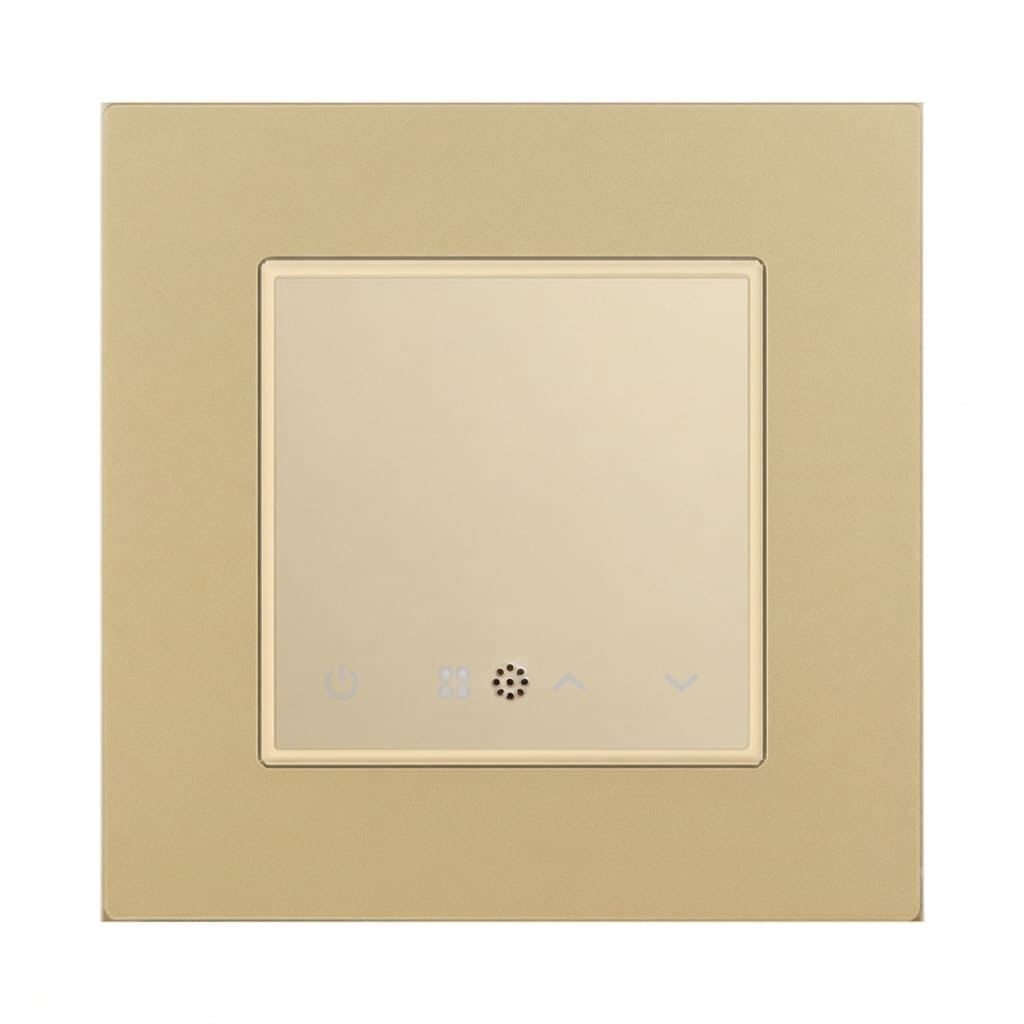
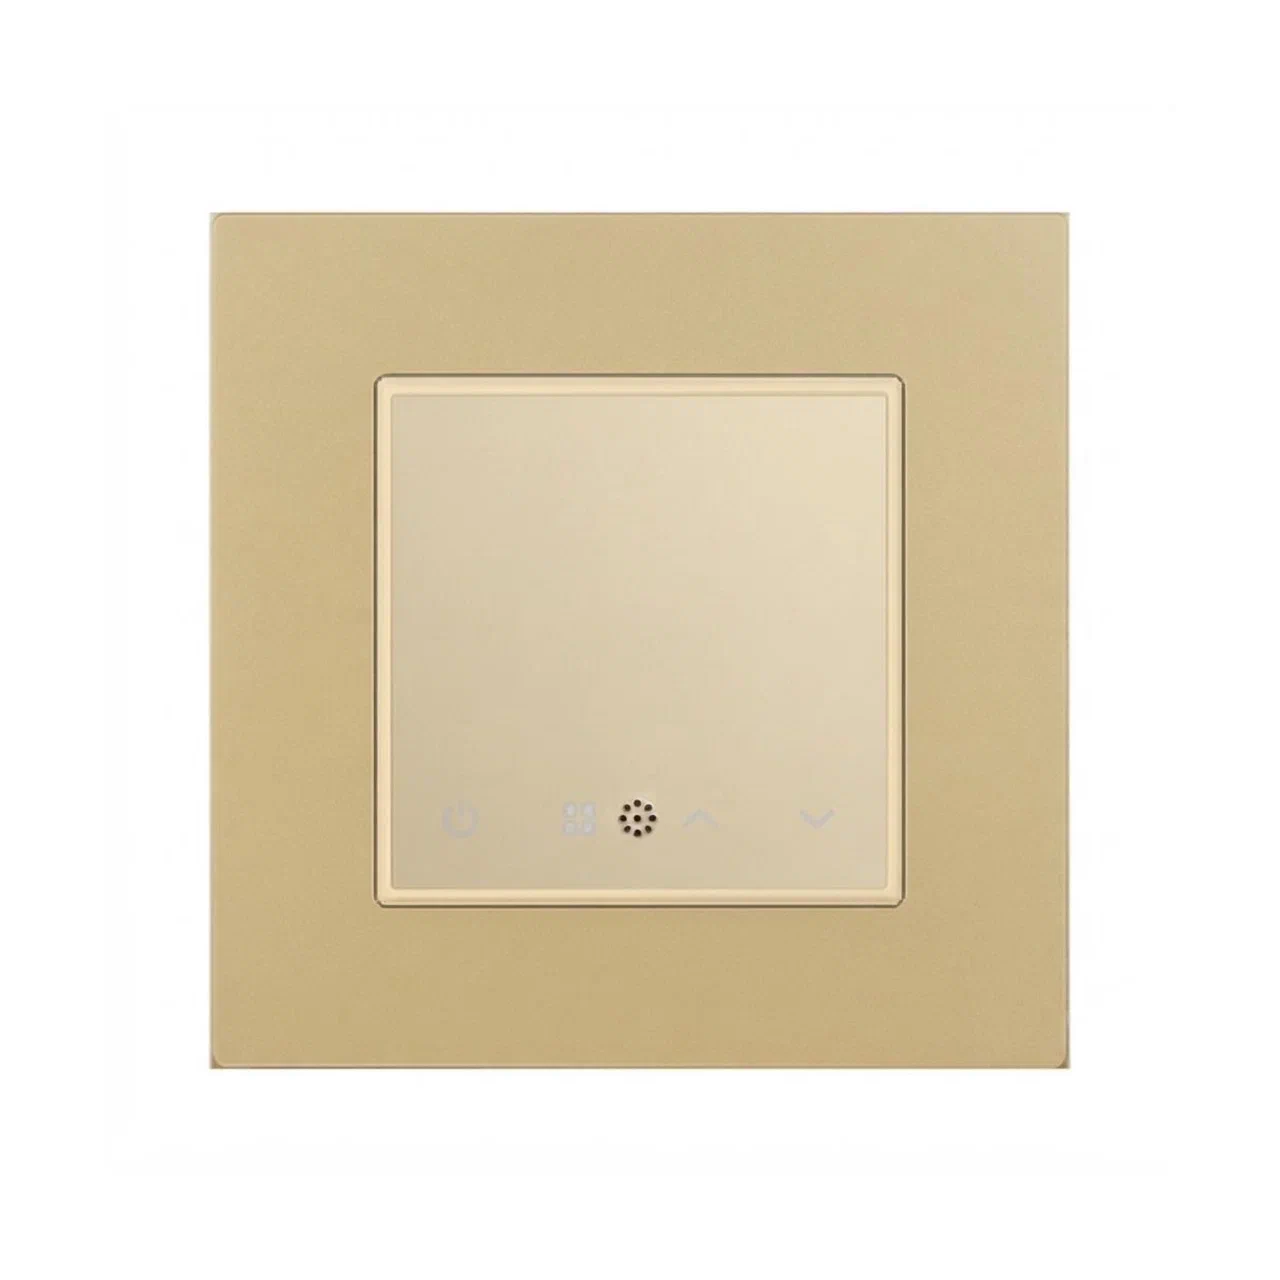
front-end / correct styles for product

Changed region(s): [[0.0938, 0.0938, 0.9062, 0.9062], [0.25, 0.25, 0.75, 0.75]]

diff --git a/prototype/homepage-v4/shop.js b/prototype/homepage-v4/shop.js
@@ -348,7 +348,7 @@
     }
 
     root.innerHTML =
-        '<div class="fk-pdp__gallery"><div class="fk-pdp__media tone-light"><img data-main-img src="' + o.img + '" alt="' + S.name + ', ' + COLORS[o.color].toLowerCase() + '" style="width:100%;height:100%;object-fit:cover" onerror="this.style.display=\'none\'">' +
+        '<div class="fk-pdp__gallery"><div class="fk-pdp__media tone-light"><img data-main-img src="' + o.img + '" alt="' + S.name + ', ' + COLORS[o.color].toLowerCase() + '" style="width:80%;height:80%;object-fit:cover" onerror="this.style.display=\'none\'">' +
         '<button type="button" class="fk-dl" data-dl aria-label="Скачать фото"><svg viewBox="0 0 24 24" aria-hidden="true"><path d="M12 4v11M7 11l5 5 5-5M5 20h14"/></svg></button></div>' + thumbsHtml(gal) + '</div>' +
         '<div class="fk-pdp__info">' +
         '<h1 class="fk-pdp__title">' + S.name + '</h1>' +

diff --git a/prototype/homepage-v4/css/product-page.css b/prototype/homepage-v4/css/product-page.css
@@ -2,7 +2,7 @@
    связанные товары. Разметка формируется shop.js (#pdp). Подключается из styles.css (@import). Данные демонстрационные. */
 
 .fk-pdp { display: grid; gap: 64px var(--fk-col-gap); grid-template-columns: minmax(0, 1fr); margin-bottom: var(--fk-section-gap); }
-.fk-pdp__media { position: relative; aspect-ratio: 1 / 1; background: var(--tone); border-radius: var(--fk-r-lg); overflow: hidden; }
+.fk-pdp__media { position: relative;display: flex;align-items: center;justify-content: center; aspect-ratio: 1 / 1; background: white; border-radius: var(--fk-r-lg); overflow: hidden; }
 .fk-pdp__media svg { width: 100%; height: 100%; }
 .fk-pdp__media .fk-cfg__tag { left: 16px; bottom: 16px; }
 .fk-pdp__proto { margin: 8px 0 16px; }
